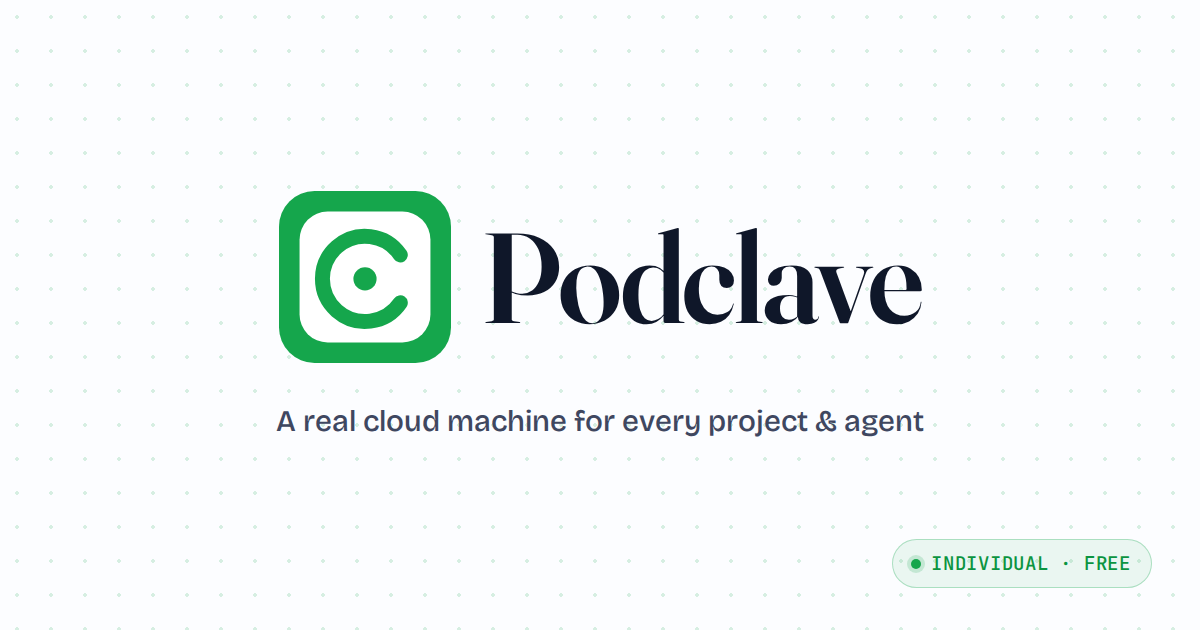
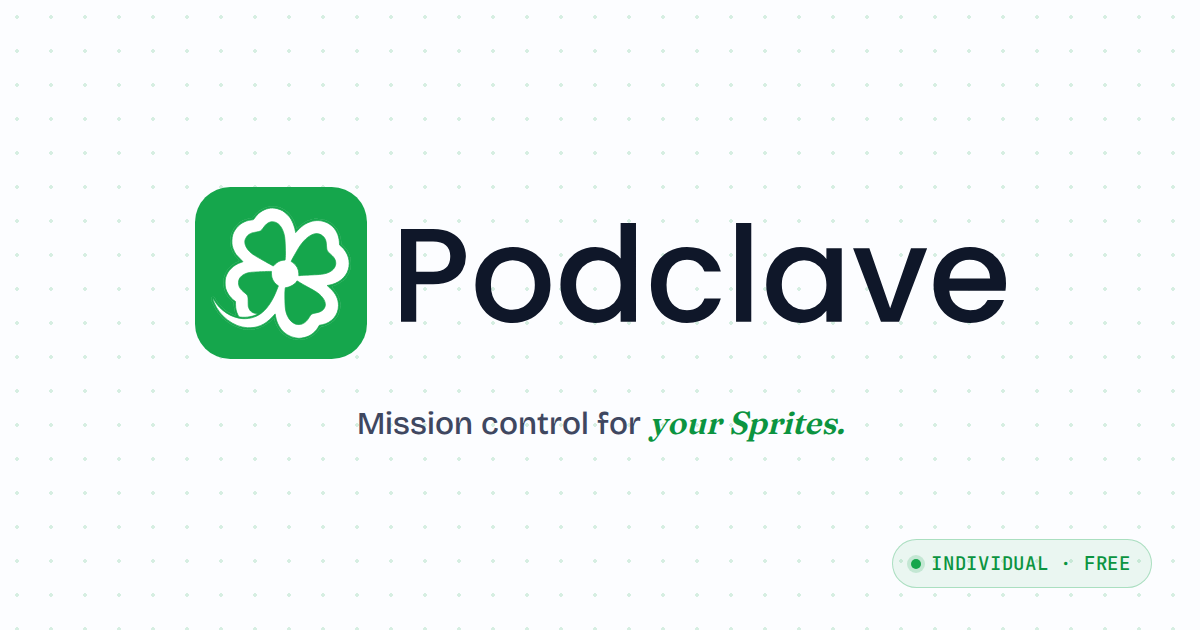
Re-anchor org profile on Sprites: new OG card + mission-control framing
Follows podclave/podclave#278 (positioning) and #279/#281 (clover brand +
regenerated OG). Headline and intro lead with 'Mission control for your
Sprites'; skill/keeps-working/pricing lines follow the site's current copy.

Claude-Session: https://claude.ai/code/session_014t5LQKcwPmHRCU3sRJ2sxM

Changed region(s): [[0.1542, 0.2714, 0.8633, 0.6032], [0.2158, 0.6333, 0.7708, 0.6937]]

diff --git a/profile/README.md b/profile/README.md
@@ -1,15 +1,16 @@
 <div align="center">
 
 <a href="https://podclave.com">
-  <img src="./assets/podclave-og.png" alt="Podclave — a real cloud machine for every project & agent" width="720">
+  <img src="./assets/podclave-og.png" alt="Podclave — mission control for your Sprites" width="720">
 </a>
 
-### A real cloud machine for every project & agent.
+### Mission control for your Sprites.
 
-Your idea shouldn't wait on setup. You bring Claude, GitHub, and a cloud
-account; we build the **control plane** that turns them into a fully-loaded,
-isolated machine for any project — ready in seconds, reachable from any
-device, and still working after you close the tab.
+Claude Code on a box you own — from your phone, your laptop, anywhere.
+Podclave is the **control plane** for [Sprites.dev](https://sprites.dev):
+every Sprite arrives fully loaded, pre-authed with Claude and GitHub, ready
+in seconds. Kick off a task and it keeps working while you're away, and
+sleeps when it's done. Your Sprites org. Your Fly bill. Your root.
 
 <a href="https://podclave.com"><strong>podclave.com&nbsp;→</strong></a>
 
@@ -21,16 +22,16 @@ device, and still working after you close the tab.
 
 **A control plane for renting and managing [Sprites.dev](https://sprites.dev) sandboxes, opinionated for AI-assisted development. Claude Code first.** Sign in, connect a Sprites.dev org, click **+ Sprite**, and you have a real Linux box in seconds — reachable from your phone, with `claude` pre-logged-in and `gh` pre-authed. A real environment, not a toy: your agents run with your full kit and can actually run commands to check their work instead of guessing.
 
-**BYOFly — your accounts, your machines, your root.** Each Sprite lives in your Sprites.dev org and pays Fly directly. We build the platform; you own the boxes. No resold compute, no markup, no metered overage.
+**BYOFly — your Sprites org, your Fly bill, your root.** Each Sprite lives in your Sprites.dev org and pays Fly directly. We build the platform; you own the boxes. No resold compute, no markup, no metered overage.
 
 - **A workstation in your browser** — PTY shell, file management (upload/download), and a per-Sprite control page from any device, phone and Chromebook included. Close the tab, reopen on another device, your shell comes back.
-- **Your full kit, already loaded** — every new Sprite arrives with `claude` installed, a seeded `CLAUDE.md`, and an in-Podclave skill so sessions know they're managed. Credentials you save once at the account or org level land on every box.
-- **Send a task and walk away** — fire a background Claude session from the control page; it keeps working after you close the tab and surfaces in Anthropic's native Remote Control. The Sprite stays warm while a task is live, sleeps when it's done.
+- **Your full kit, already loaded** — every new Sprite arrives with `claude` installed, a seeded `CLAUDE.md`, and an in-Podclave skill so claude knows its way around the box. Credentials you save once at the account or org level land on every box.
+- **Send a task and walk away** — fire a background Claude session from the control page; it keeps working while you're away and surfaces in Anthropic's native Remote Control. The Sprite stays warm while a task is live, sleeps when it's done.
 - **Real services + a live preview URL** — run Postgres/Redis/etc. as managed services and route the Sprite's public HTTPS URL to any of them.
 - **Schedules, Scouts & Agent Email** — cron across your Sprites in the free base; on a team, add Scouts (unattended Claude on a schedule or webhook) and Agent Email (real inboxes assigned to your boxes).
 - **Built for one. Fleet-ready.** — invite teammates who never touch the Fly token, set one network-egress policy plus package and overlay baselines once, inherited fleet-wide, with an admin console over the whole fleet.
 
-**Pricing — one plan to start; pay when you bring a team.**
+**Pricing — free to start; worth it for a team.**
 
 - **Individual — Free.** The full control plane for your own projects, plus Schedules.
 - **Team — from $99/mo.** Up to 10 members (add more in blocks of 10), plus Scouts and Agent Email.
